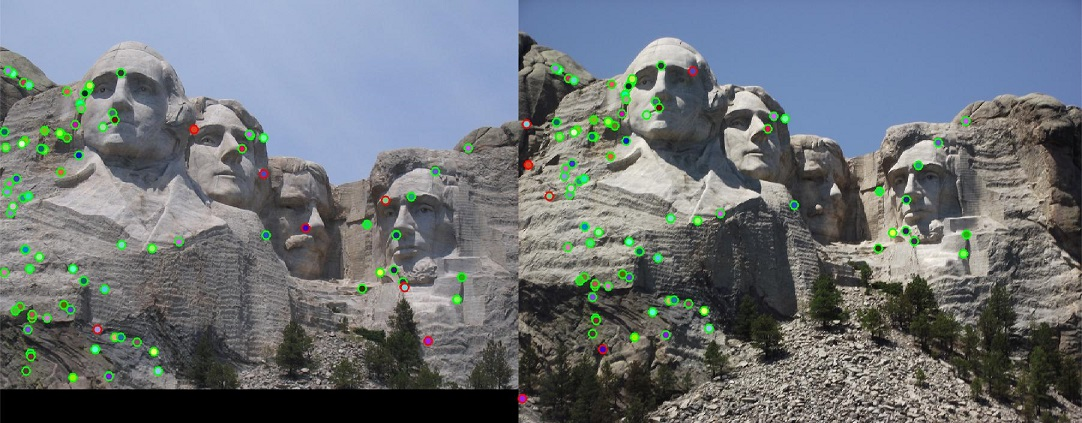
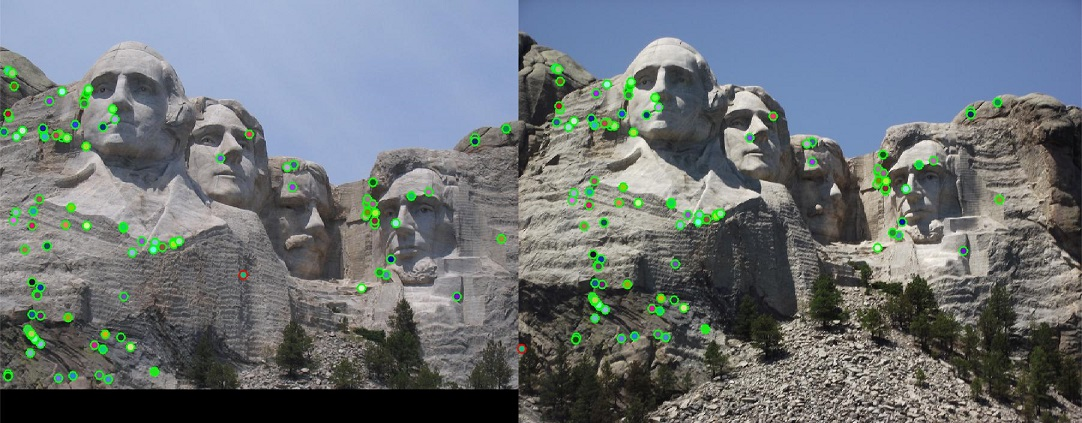
optimized

diff --git a/html/index.html b/html/index.html
@@ -183,30 +183,40 @@ The first one is using sliding window to restrict the local region and to find t
 
 
 <h3>Decision & Tuning</h3>
-<p> 	The tuning of the parameters was all finished with Norte Dame images pair. In the first hand result, the first 100 confident points, the good match rate is not satisfied (72 good match out of 100 match pair). but there are acutally 346 good match pairs points in all the match. Therefore, it is reasonable to improve the evaluation of confidence. Therefore, the third closet point was also included. The ratio was calculated as 
-2 x least distance / (second least distance + third least distance). After the modification, the good match rate of first 100 confident points raised from 72% to 77%</p>
+<p> 	The tuning of the parameters was all finished with Norte Dame images pair. In the first hand result, the first 100 confident points, the good match rate is not satisfied 68 good match out of 100 match pair). To tune the algorithm. the thershold of Non-maxima suppression had been set at 0.0000001. And the alpha value was tuned to 0.05. The gaussian filter used to blur the gradient image was tuned as 0.2 varience. After all the tuning, the matching rate of first 100 points raised from 68 to 88.</p>
 
-<p> 	The algorithm at first can only process grayscale images. The total amount of interested points was limited because it only found points in one layer. At first, the thershold of connect components method was lower to include more point. However, the points we received from this modification did not acutally include useful features. To increase the amount of interested points, the algorithm was modified to calculate colored version of image. All the interested points in three layers of image are all included. Also, in the features extraction, the gradients of all three layers are all included. The calculation was longer but the the match rate increased from 77% to 83%. </p>
+<p> 	The algorithm at first can only process grayscale images. The total amount of interested points was limited because it only found points in one layer. At first, the thershold of connect components method was lower to include more point. However, the points we received from this modification did not acutally include useful features. To increase the amount of interested points, the algorithm was modified to calculate colored version of image. All the interested points in three layers of image are all included. Also, in the features extraction, the gradients of all three layers are all included. The calculation was longer but the the match rate increased from 88% to 94%. </p>
 
 <h3>Result</h3>
 <div style="float: center; padding: 20px">
 <img src="NotreDame_eval_color.jpg" />
 <center><p style="font-size: 14px">Match pairs of Norte Dame images pair</p></center>
 </div>
-<p> The first 100 match pairs was evaluated for the Norte Dame images pair. There are 83 good matches out of 100 matches. The points with green cricumferen are good matches. The good matches are more concentrated in the left side of the image.</p>
+<p> The first 100 match pairs was evaluated for the Norte Dame images pair. There are 94 good matches out of 100 matches. The points with green cricumferen are good matches. The good matches are more concentrated in the left side of the image.</p>
 
 <div style="float: left; padding: 20px">
 <img src="Mount_RushMore_eval_color_200.jpg" />
 <center><p style="font-size: 14px">Match pairs of Mount Rushmore images pair</p></center>
 </div>
-<p> The first 100 match pairs was evaluated for the Mount Rushmore images pair. There are 92 good matches out of 100 matches. The points with green cricumferen are good matches. The good matches are more concentrated in the left side of the image.</p>
+<p> Grayscale mode is already good enough for the Mount Rushmore pair, so only the grayscale match result was shown. The first 100 match pairs was evaluated for the Mount Rushmore images pair. There are 99 good matches out of 100 matches. The points with green cricumferen are good matches. The good matches are more concentrated in the left side of the image. The first 500 matches was also examined. There are 467 good matches in the first 500 matches, which is 93.4% good match rate.</p>
 
 <div style="float: left; padding: 20px">
 <img src="eval_color_EpiscopalGaudi.jpg" />
 <center><p style="font-size: 14px">Match pairs of Episcopal Gaudi images pair</p></center>
 </div>
-<p> The first 100 match pairs was evaluated for the Episcopal Gaudi images pair. However, only 16 good matches out of 100 matches. This image pair is more challenging to match for several reasons. First, the wall of Episcopal Gaudi naturally contains a lot of edges and corner. Moreover, their features will be close in SIFT vectors and make the match much harder. Also the different size of two picture will make some corners harder to match. Scaling will make some corners becomes edges. Also, the rotation of Episcopal Gaudi makes the features matching harder with SIFT vectors. Some advanced algorithm can make the interested point fit the scaling and fix the rotation in SIFT vectors but they are not included here.</p>
+<p> The first 100 match pairs was evaluated for the Episcopal Gaudi images pair. However, only 16 good matches out of 100 matches. This image pair is more challenging to match for several reasons. First, the different size of two images will make some corners harder to match. Scaling will make some corners becomes edges. Also, the rotation of Episcopal Gaudi makes the features matching harder with SIFT vectors. Some advanced algorithm can make the interested point.</p>
 
+<p> Here, the larger image was simply resized to match the smaller image, and then the color algorithm was run on the images pair too. For the first 100 matches, the good match raised from 16% to 69%. It is still not satisfied but already improved a lot. Another to improve the result is to set the feature width for the larger image larger according to the ratio of their sizes. The result raised from 16% to 40%. It performed not as good as directly resize the image</p>
+
+<div style="float: left; padding: 20px">
+<img src="eval_color_EpiscopalGaudi_best.jpg" />
+<center><p style="font-size: 14px">Match pairs of Episcopal Gaudi images pair, larger image was resized.</p></center>
+</div>
+
+<div style="float: left; padding: 20px">
+<img src="diffFeatureWeight_eval.jpg" />
+<center><p style="font-size: 14px">Match pairs of Episcopal Gaudi images pair, larger image used larger feature width</p></center>
+</div>
 
 <!-- <h3>Results in a table</h3>
 

diff --git a/code/proj2.m b/code/proj2.m
@@ -42,9 +42,10 @@ image2 = single(image2)/255;
 %make images smaller to speed up the algorithm. This parameter gets passed
 %into the evaluation code so don't resize the images except by changing
 %this parameter.
-scale_factor = 0.5; 
-image1 = imresize(image1, scale_factor, 'bilinear');
-image2 = imresize(image2, scale_factor, 'bilinear');
+scale_factor1 = 0.5; 
+scale_factor2 = 0.5;
+image1 = imresize(image1, scale_factor1, 'bilinear');
+image2 = imresize(image2, scale_factor2, 'bilinear');
 
 % You don't have to work with grayscale images. Matching with color
 % information might be helpful.
@@ -55,13 +56,17 @@ feature_width = 16; %width and height of each local feature, in pixels.
 
 %% Find distinctive points in each image. Szeliski 4.1.1
 % !!! You will need to implement get_interest_points. !!!
-[x1, y1] = get_interest_points(image1_bw, feature_width);
-[x2, y2] = get_interest_points(image2_bw, feature_width);
+% [x1, y1] = get_interest_points(image1_bw, feature_width);
+% [x2, y2] = get_interest_points(image2_bw, ceil(feature_width .* 1.6));
+[x1, y1] = get_interest_points(image1, feature_width);
+[x2, y2] = get_interest_points(image2, feature_width);
 
 %% Create feature vectors at each interest point. Szeliski 4.1.2
 % !!! You will need to implement get_features. !!!
-[image1_features] = get_features(image1_bw, x1, y1, feature_width);
-[image2_features] = get_features(image2_bw, x2, y2, feature_width);
+% [image1_features] = get_features(image1_bw, x1, y1, feature_width);
+% [image2_features] = get_features(image2_bw, x2, y2, ceil(feature_width .* 1.6));
+[image1_features] = get_features(image1, x1, y1, feature_width);
+[image2_features] = get_features(image2, x2, y2, feature_width);
 
 
 %% Match features. Szeliski 4.1.3
@@ -76,15 +81,15 @@ feature_width = 16; %width and height of each local feature, in pixels.
 % There are two visualization functions. You can comment out one of both of
 % them if you prefer.
 num_pts_to_visualize = 100;
-show_correspondence(image1, image2, y1(1,matches(1:num_pts_to_visualize,1)), ...
-                                    x1(1,matches(1:num_pts_to_visualize,1)), ...
-                                    y2(1,matches(1:num_pts_to_visualize,2)), ...
-                                    x2(1,matches(1:num_pts_to_visualize,2)));
-                                 
-show_correspondence2(image1, image2, y1(1,matches(1:num_pts_to_visualize,1)), ...
-                                     x1(1,matches(1:num_pts_to_visualize,1)), ...
-                                     y2(1,matches(1:num_pts_to_visualize,2)), ...
-                                     x2(1,matches(1:num_pts_to_visualize,2)));
+% show_correspondence(image1, image2, y1(1,matches(1:num_pts_to_visualize,1)), ...
+%                                     x1(1,matches(1:num_pts_to_visualize,1)), ...
+%                                     y2(1,matches(1:num_pts_to_visualize,2)), ...
+%                                     x2(1,matches(1:num_pts_to_visualize,2)));
+%                                  
+% show_correspondence2(image1, image2, y1(1,matches(1:num_pts_to_visualize,1)), ...
+%                                      x1(1,matches(1:num_pts_to_visualize,1)), ...
+%                                      y2(1,matches(1:num_pts_to_visualize,2)), ...
+%                                      x2(1,matches(1:num_pts_to_visualize,2)));
 
 % This evaluation function will only work for the particular Notre Dame
 % image pair specified in the starter code.  Comment out this function if
@@ -94,7 +99,7 @@ show_correspondence2(image1, image2, y1(1,matches(1:num_pts_to_visualize,1)), ..
 % pairs if you want, but it's very tedious. It would be a great service to
 % the class for future years, though!
 num_pts_to_evaluate = 100;
-evaluate_correspondence(image1, image2, eval_file, scale_factor, ... 
+evaluate_correspondence(image1, image2, eval_file, scale_factor1, scale_factor2,... 
                         y1(matches(1:num_pts_to_evaluate,1)), ...
                         x1(matches(1:num_pts_to_evaluate,1)), ...
                         y2(matches(1:num_pts_to_evaluate,2)), ...

diff --git a/code/get_features.m b/code/get_features.m
@@ -68,8 +68,10 @@ for ind = 1 : size(x,2)
     for knd = 1 : size(image,3)
         graX = wholegraX(ceil(x(ind) - (feature_width / 2)) : ceil(x(ind) + (feature_width / 2 - 1)), ceil(y(ind) - feature_width / 2) : ceil(y(ind) + feature_width / 2 - 1),knd);
         graY = wholegraY(ceil(x(ind) - (feature_width / 2)) : ceil(x(ind) + (feature_width / 2 - 1)), ceil(y(ind) - feature_width / 2) : ceil(y(ind) + feature_width / 2 - 1),knd);
-        graX = graX .* blurer;
-        graY = graY .* blurer;
+        magnitude = sqrt(graX .* graX + graY .* graY);
+%         magnitude = magnitude .* blurer;
+%         graX = graX .* blurer;
+%         graY = graY .* blurer;
         setupbins = [0 0];
         for iind = 1 : size(graX, 1)
             for jjnd = 1 : size(graX, 2)
@@ -118,18 +120,18 @@ for ind = 1 : size(x,2)
                         setupbins = [3];
                     end
                 end
-                tempfeatures{ind}{ceil(iind / 4), ceil(jjnd / 4)}(setupbins) = tempfeatures{ind}{ceil(iind / 4), ceil(jjnd / 4)}(setupbins) + abs(graX(iind, jjnd)) + abs(graY(iind, jjnd));
+                tempfeatures{ind}{ceil(iind / (feature_width / 4)), ceil(jjnd / (feature_width / 4))}(setupbins) = tempfeatures{ind}{ceil(iind / (feature_width / 4)), ceil(jjnd / (feature_width / 4))}(setupbins) + magnitude(iind, jjnd);
 %                 if (ceil(iind / 4) - 1 > 0)
-%                     tempfeatures{ind}{ceil(iind / 4 - 1), ceil(jjnd / 4)}(setupbins) = tempfeatures{ind}{ceil(iind / 4 - 1), ceil(jjnd / 4)}(setupbins) + abs(graX(iind, jjnd)) + abs(graY(iind, jjnd));
+%                     tempfeatures{ind}{ceil(iind / 4 - 1), ceil(jjnd / 4)}(setupbins) = tempfeatures{ind}{ceil(iind / 4 - 1), ceil(jjnd / 4)}(setupbins) + magnitude(iind, jjnd);
 %                 end
 %                 if (ceil(iind / 4) + 1 < 5)
-%                     tempfeatures{ind}{ceil(iind / 4 + 1), ceil(jjnd / 4)}(setupbins) = tempfeatures{ind}{ceil(iind / 4 + 1), ceil(jjnd / 4)}(setupbins) + abs(graX(iind, jjnd)) + abs(graY(iind, jjnd));
+%                     tempfeatures{ind}{ceil(iind / 4 + 1), ceil(jjnd / 4)}(setupbins) = tempfeatures{ind}{ceil(iind / 4 + 1), ceil(jjnd / 4)}(setupbins) + magnitude(iind, jjnd);
 %                 end
 %                 if (ceil(jjnd / 4) + 1 < 5)
-%                     tempfeatures{ind}{ceil(iind / 4), ceil(jjnd / 4) + 1}(setupbins) = tempfeatures{ind}{ceil(iind / 4), ceil(jjnd / 4) + 1}(setupbins) + abs(graX(iind, jjnd)) + abs(graY(iind, jjnd));
+%                     tempfeatures{ind}{ceil(iind / 4), ceil(jjnd / 4) + 1}(setupbins) = tempfeatures{ind}{ceil(iind / 4), ceil(jjnd / 4) + 1}(setupbins) + magnitude(iind, jjnd);
 %                 end
 %                 if (ceil(jjnd / 4) - 1 > 0)
-%                     tempfeatures{ind}{ceil(iind / 4), ceil(jjnd / 4 - 1)}(setupbins) = tempfeatures{ind}{ceil(iind / 4), ceil(jjnd / 4 - 1)}(setupbins) + abs(graX(iind, jjnd)) + abs(graY(iind, jjnd));
+%                     tempfeatures{ind}{ceil(iind / 4), ceil(jjnd / 4 - 1)}(setupbins) = tempfeatures{ind}{ceil(iind / 4), ceil(jjnd / 4 - 1)}(setupbins) + magnitude(iind, jjnd);
 %                 end
             end
         end

diff --git a/code/evaluate_correspondence.m b/code/evaluate_correspondence.m
@@ -4,16 +4,16 @@
 
 % You do not need to modify anything in this function, although you can if
 % you want to.
-function evaluate_correspondence(imgA, imgB, ground_truth_correspondence_file, scale_factor, x1_est, y1_est, x2_est, y2_est)
+function evaluate_correspondence(imgA, imgB, ground_truth_correspondence_file, scale_factor1, scale_factor2, x1_est, y1_est, x2_est, y2_est)
 
 % ground_truth_correspondence_file = '../data/Notre Dame/921919841_a30df938f2_o_to_4191453057_c86028ce1f_o.mat';
 %  = imread('../data/Notre Dame/921919841_a30df938f2_o.jpg');
 %  = imread('../data/Notre Dame/4191453057_c86028ce1f_o.jpg');
 
-x1_est = x1_est ./ scale_factor;
-y1_est = y1_est ./ scale_factor;
-x2_est = x2_est ./ scale_factor;
-y2_est = y2_est ./ scale_factor;
+x1_est = x1_est ./ scale_factor1;
+y1_est = y1_est ./ scale_factor1;
+x2_est = x2_est ./ scale_factor2;
+y2_est = y2_est ./ scale_factor2;
 
 good_matches = zeros(length(x1_est),1); %indicator vector
 
@@ -69,10 +69,10 @@ for i = 1:length(x1_est)
 
     cur_color = rand(1,3);
 
-    plot(x1_est(i)*scale_factor,y1_est(i)*scale_factor, 'o', 'LineWidth',2, 'MarkerEdgeColor',edgeColor,...
+    plot(x1_est(i)*scale_factor1,y1_est(i)*scale_factor1, 'o', 'LineWidth',2, 'MarkerEdgeColor',edgeColor,...
                        'MarkerFaceColor', cur_color, 'MarkerSize',10)
 
-    plot(x2_est(i)*scale_factor+shiftX,y2_est(i)*scale_factor, 'o', 'LineWidth',2, 'MarkerEdgeColor',edgeColor,...
+    plot(x2_est(i)*scale_factor2+shiftX,y2_est(i)*scale_factor2, 'o', 'LineWidth',2, 'MarkerEdgeColor',edgeColor,...
                        'MarkerFaceColor', cur_color, 'MarkerSize',10)
 end
 hold off;

diff --git a/code/get_interest_points.m b/code/get_interest_points.m
@@ -37,13 +37,13 @@ function [x, y, confidence, scale, orientation] = get_interest_points(image, fea
 % of cornerness.
 
 % Placeholder that you can delete. 20 random points
-alpha = 0.06;
+alpha = 0.047;
 thershold = 0.0000001;
 % x = ceil(rand(20,1) * size(image,2));
 % y = ceil(rand(20,1) * size(image,1));
 % image = imgaussfilt(image, 1);
-gaussianD = fspecial('gauss', [6, 6], 1);
-lgaussianD = fspecial('gauss', [8, 8], 1);
+gaussianD = fspecial('gauss', [5, 5], 1);
+lgaussianD = fspecial('gauss', [8, 8], 0.1);
 [gaussianDx, gaussianDy]  = gradient(gaussianD);
 [height, width, channels] = size(image);
 Ix = zeros(height, width, channels);
@@ -57,8 +57,12 @@ for ind = 1 : channels
     gIx2(:,:,ind) = imfilter(Ix(:,:,ind) .* Ix(:,:,ind), lgaussianD);
     gIy2(:,:,ind) = imfilter(Iy(:,:,ind) .* Iy(:,:,ind), lgaussianD);
     gIxIy(:,:,ind) = imfilter(Ix(:,:,ind) .* Iy(:,:,ind), lgaussianD);
+%     gIx2(:,:,ind) = Ix(:,:,ind) .* Ix(:,:,ind);
+%     gIy2(:,:,ind) = Iy(:,:,ind) .* Iy(:,:,ind);
+%     gIxIy(:,:,ind) = Ix(:,:,ind) .* Iy(:,:,ind);
 end
 harR = gIx2 .* gIy2 - gIxIy .* gIxIy - alpha .* (gIx2 + gIy2) .* (gIx2 + gIy2);
+% harR = abs(harR);
 thersholdMask = harR > thershold;
 trylist = [];
 for knd = 1 : channels
@@ -89,9 +93,9 @@ y(delMask) = [];
 for ind = 1 : size(x,2)
     mypoints(x(ind), y(ind)) = 1;
 end
-% image_pts(:,:,1) = image(:,:,1) + mypoints;
-% image_pts(:,:,2) = image(:,:,2) + mypoints;
-% image_pts(:,:,3) = image(:,:,3) + mypoints;
+% for ind = 1 : channels
+%     image_pts(:, :, ind) = image(:, :, ind) + mypoints;
+% end
 % imshow(image_pts);
 end
 

diff --git a/code/match_features.m b/code/match_features.m
@@ -38,6 +38,7 @@ for ind = 1 : size(features1, 1)
     pt2 = 1;
     for jnd = 1 : size(features2, 1)
         distance = sum((features1(ind, :) - features2(jnd, :)) .* (features1(ind, :) - features2(jnd, :)));
+%         distance = pdist2(features1(ind, :), features2(jnd, :),'minkowski');
         if (distance < mindistance)
             pt2 = pt1;
             pt1 = jnd;
@@ -48,7 +49,7 @@ for ind = 1 : size(features1, 1)
     end
     matches(ind, 1) = ind;
     matches(ind, 2) = pt1;
-    confidences(ind) = 1 / (2.*(sqrt(mindistance) / (sqrt(thirdmindistance) + sqrt(secmindistance))));
+    confidences(ind) = 1 / (sqrt(mindistance) / sqrt(secmindistance));
 end   
 
 
